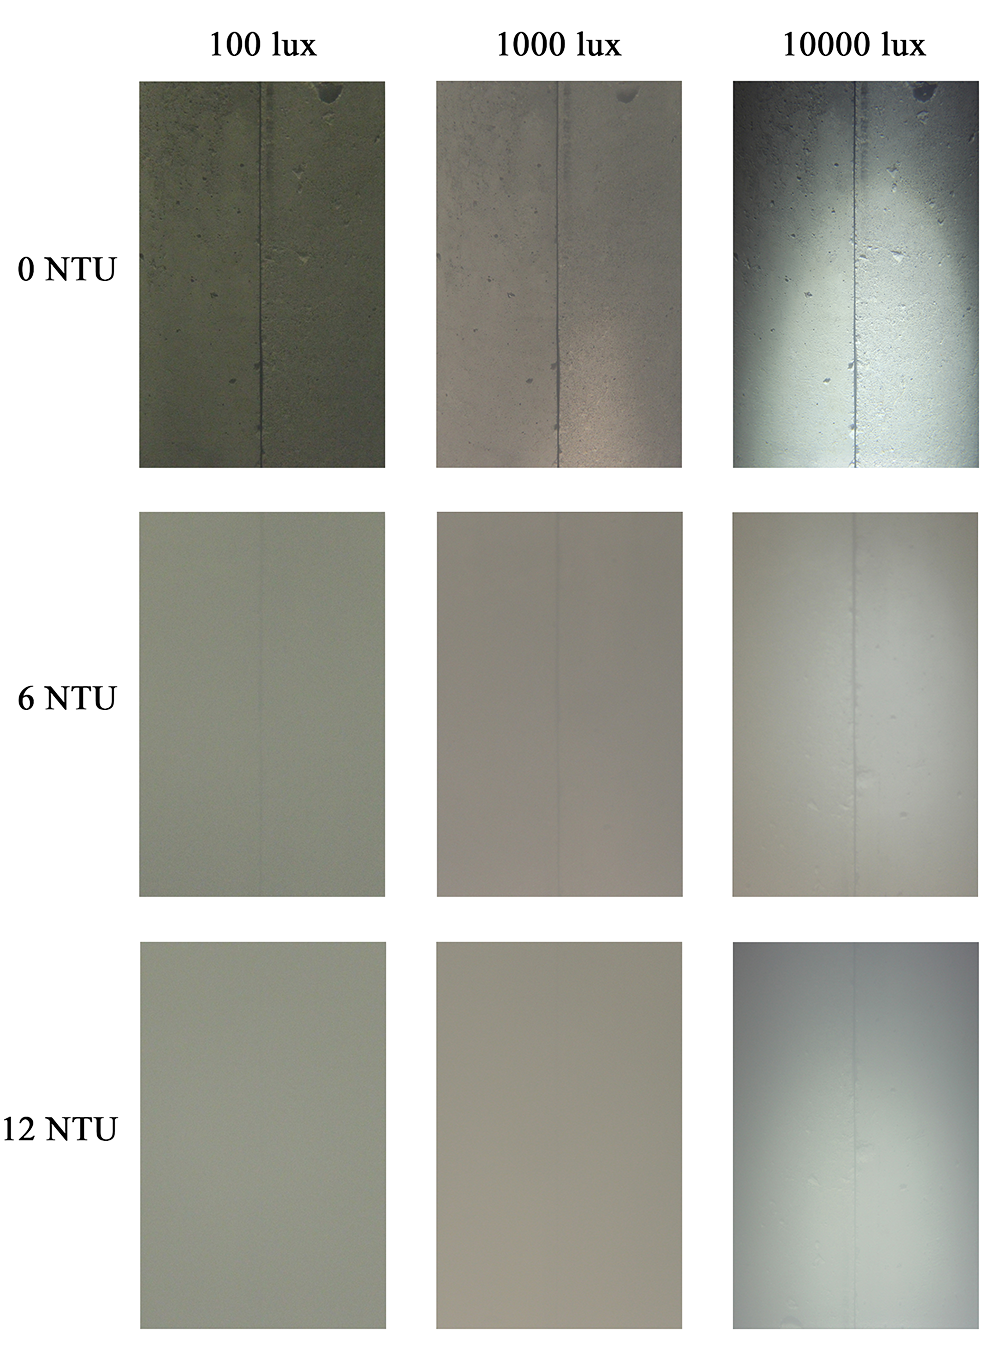
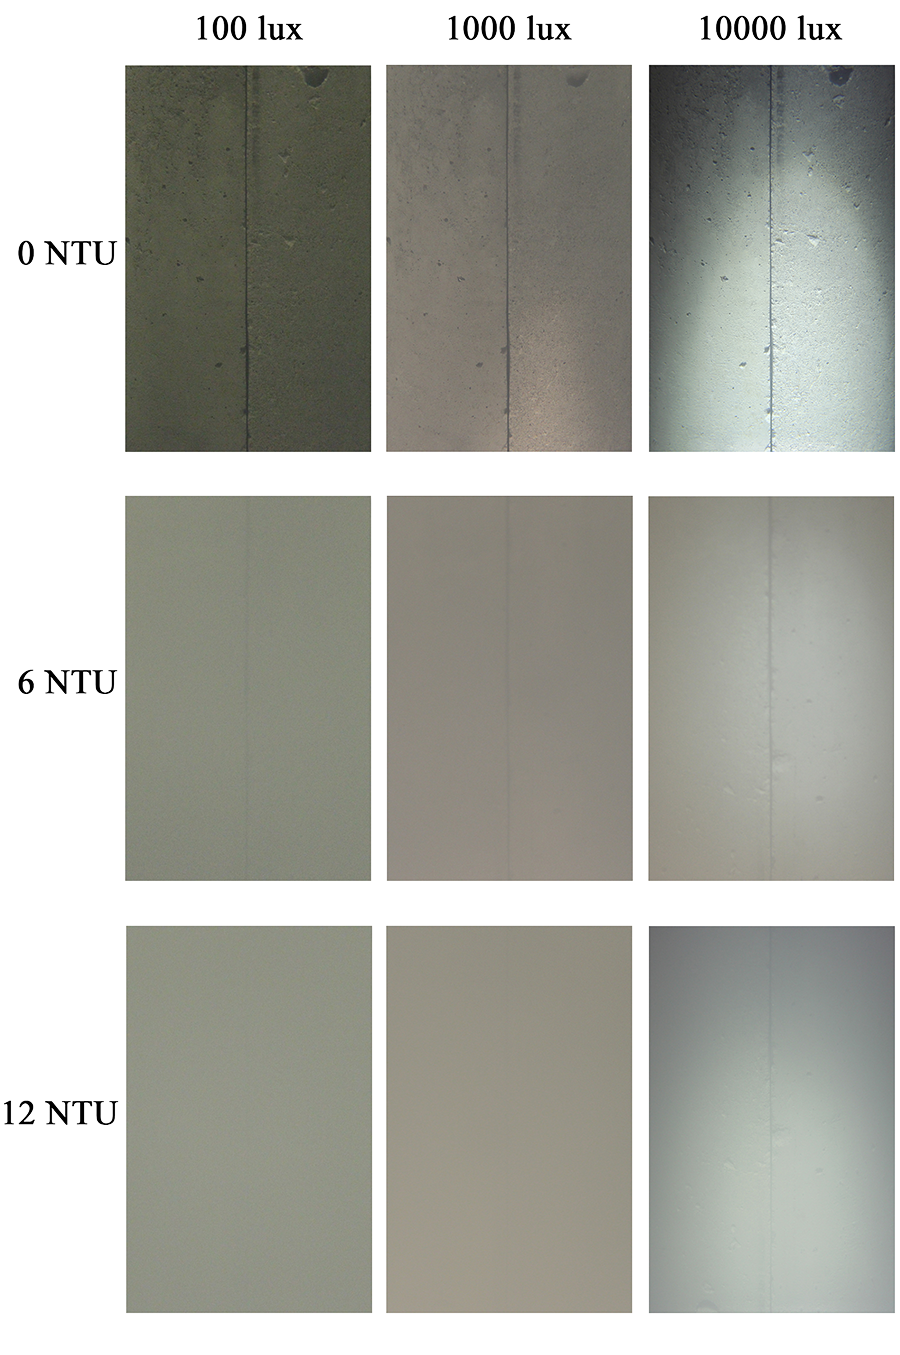
minor

diff --git a/_posts/2019-09-05-sixth-post.md b/_posts/2019-09-05-sixth-post.md
@@ -4,7 +4,7 @@ title: Cracks
 image: /img/crack.jpg
 author: Guest Author
 description: This is a post with an introduction image and text
-intro: This is the introduction text for this post. It appears large and bold at the top of the post!
+intro: Example of simulated cracked specimen under varying lighting and turbidity conditions
 intro_image: /img/cracks.png
 intro_image_ratio: is-9by16
 ---
